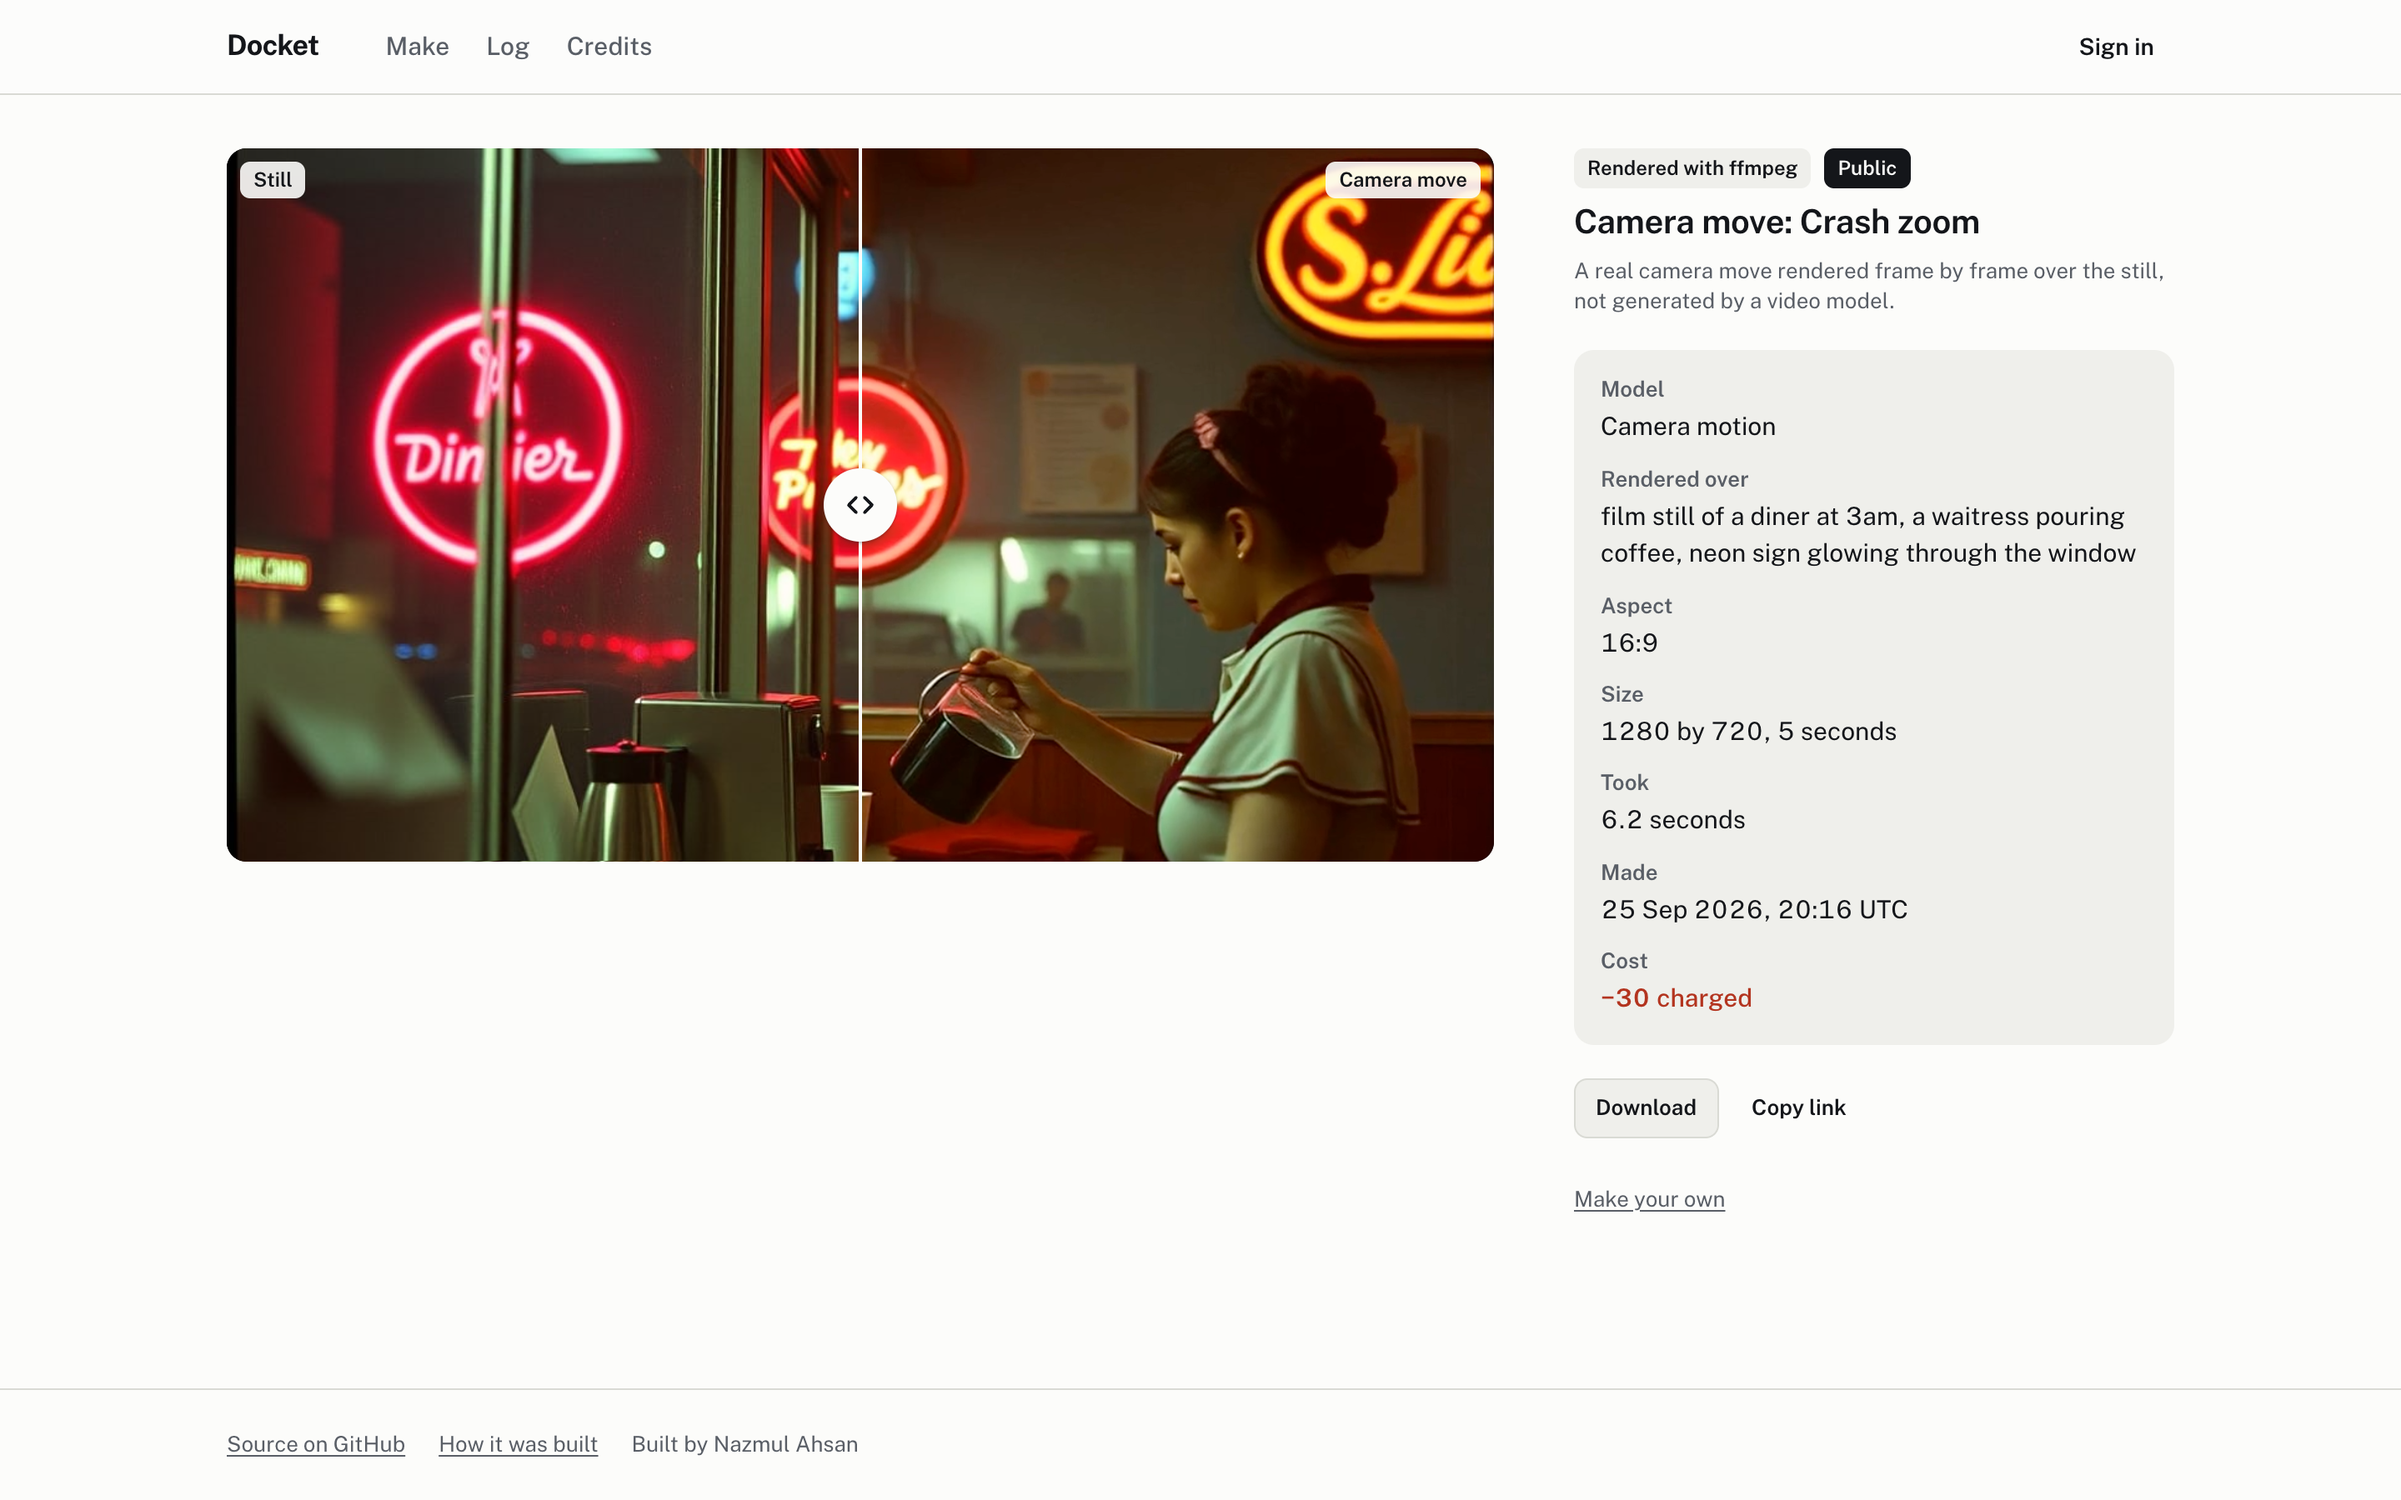
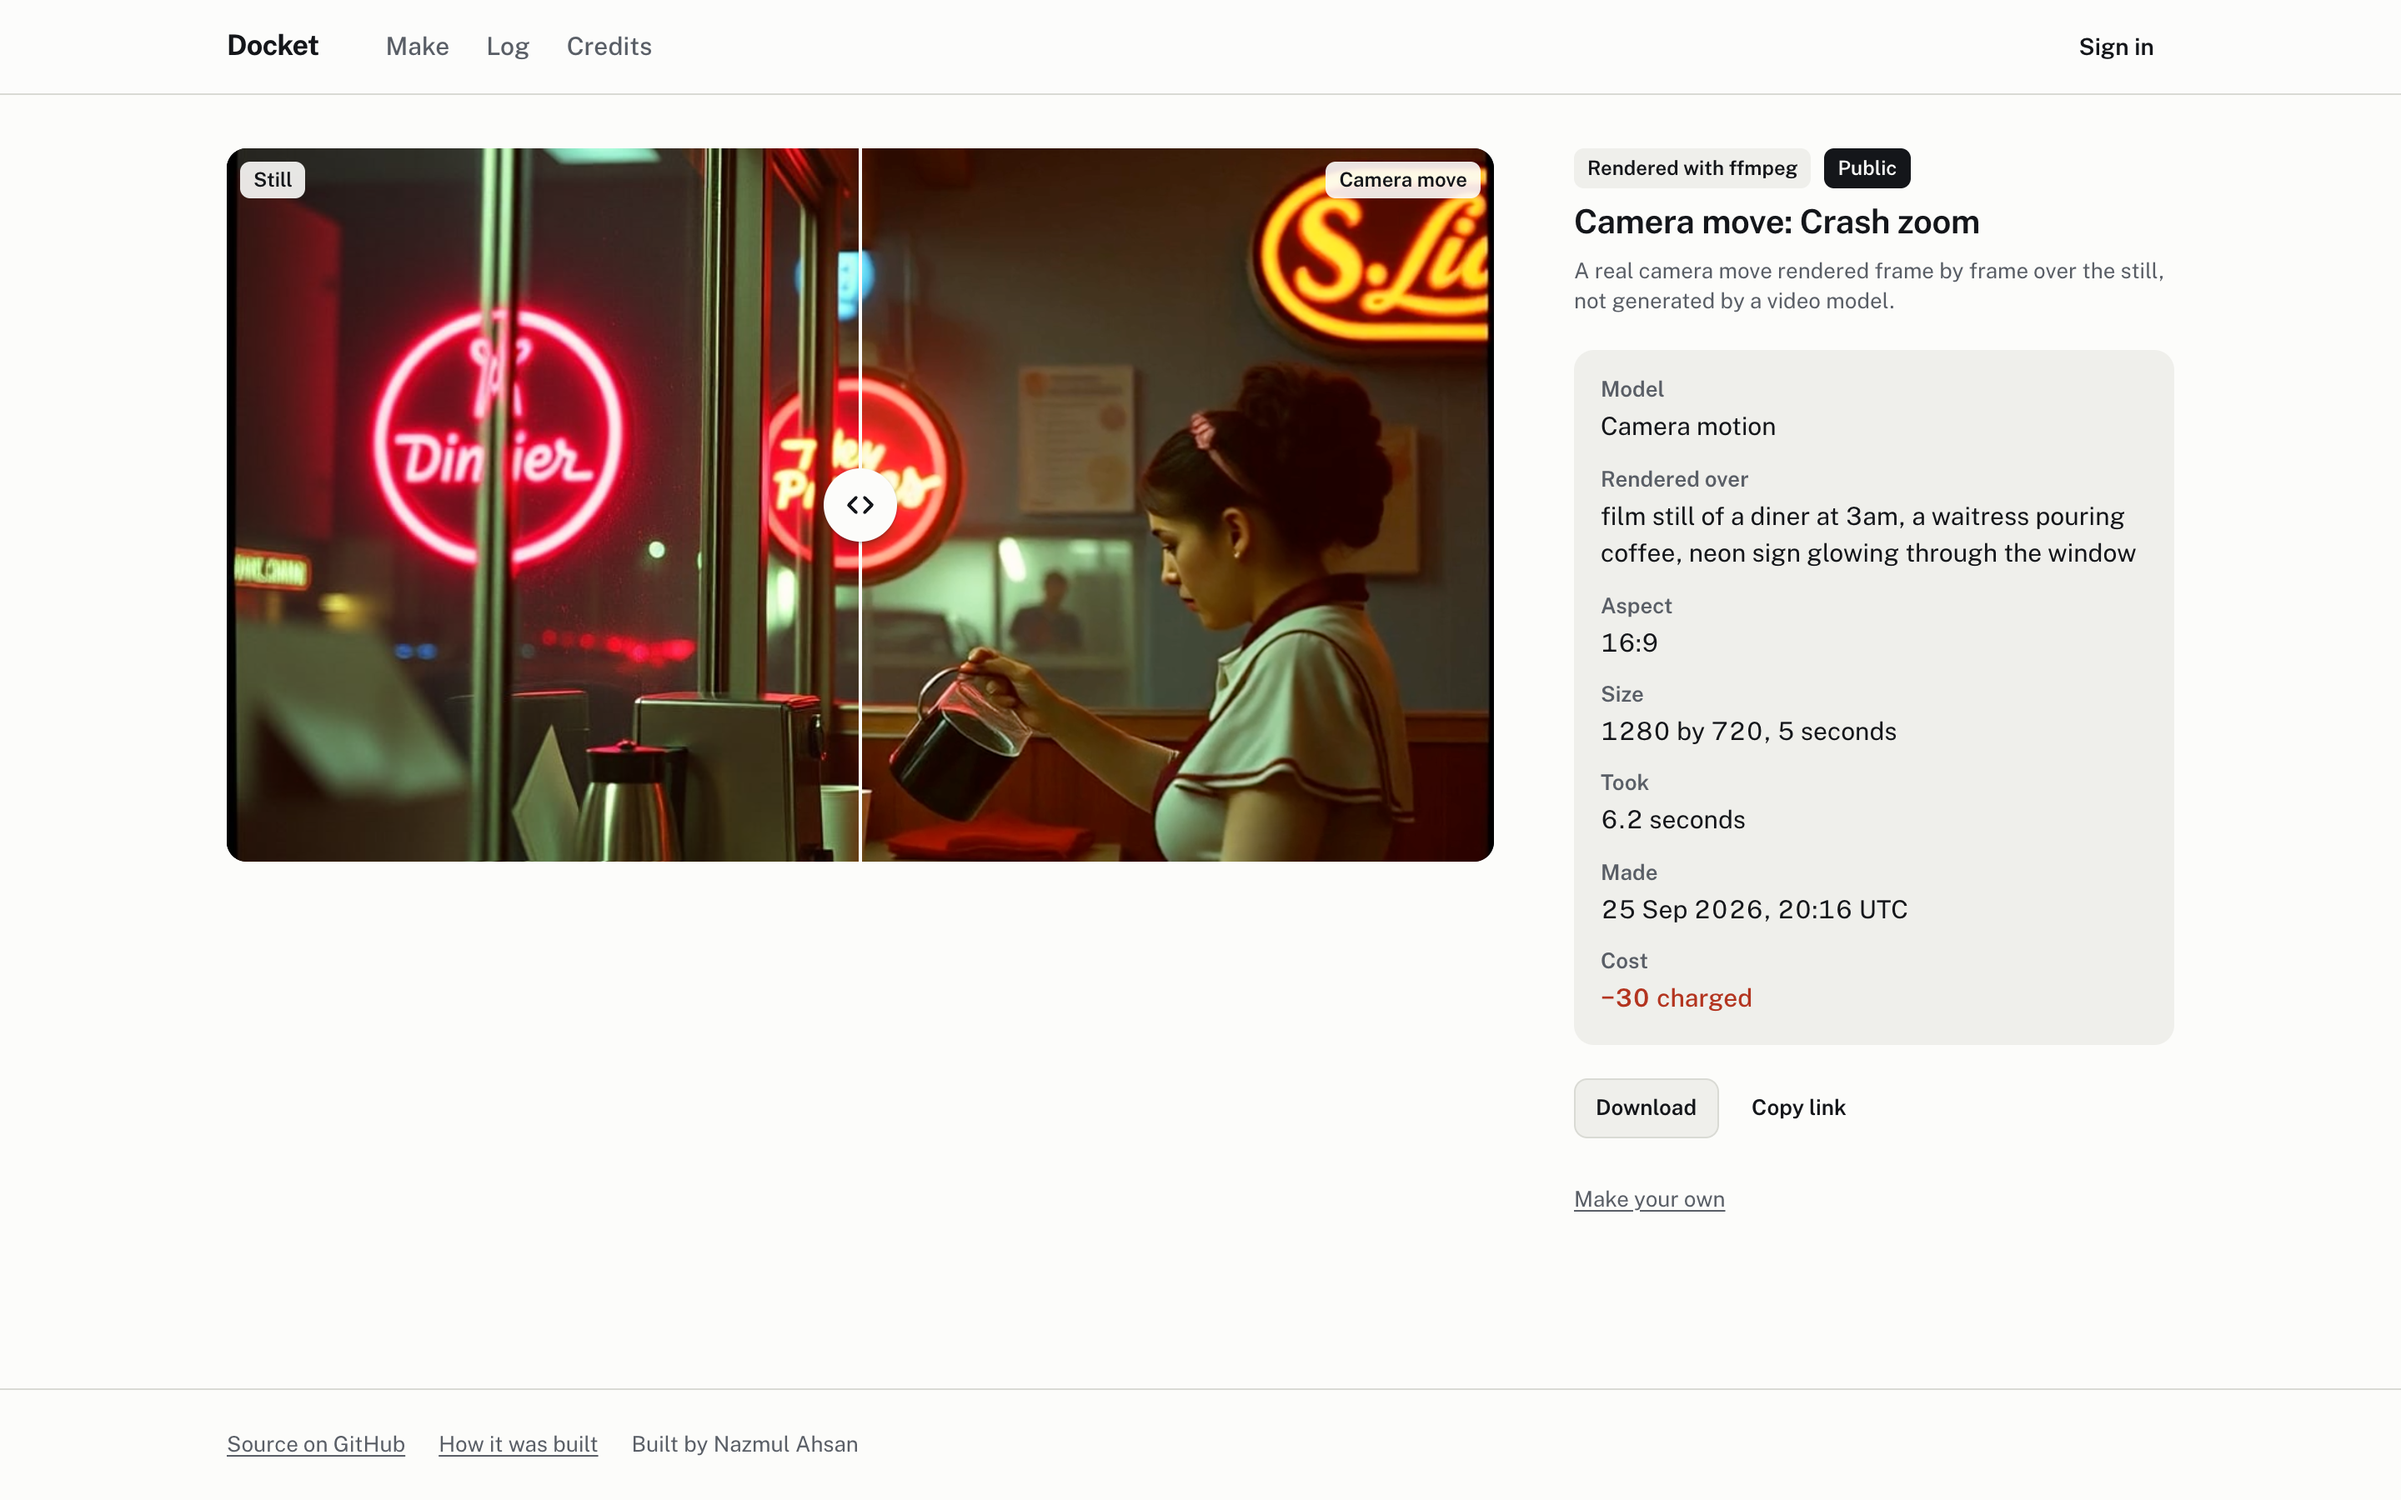
STATUS: frozen after the last pass; what waits on the owner
Production at 67a2799: readiness 78/78, home e2e 38/38 read-only at each width. #40 waits
on the owner's edits (not on GitHub yet) and the "With a real budget, next" bullets; #47 and
#44 follow it.

diff --git a/STATUS.md b/STATUS.md
@@ -1,10 +1,23 @@
 # Status
 
-**Features are frozen again as of 2026-09-26, after the reviewer-pass items below.** From here on, only fixes for what's broken, copy corrections, and the submission itself. Anything new goes to the owner as a proposal first.
+**Features are frozen as of 2026-09-26, after the owner's last pass.** From here on, only fixes for what's broken, copy corrections, and the submission itself. Anything new goes to the owner as a proposal first.
 
-**Waiting on the owner, not merged:**
-- **#40:** README, "What I changed from Higgsfield, and why". Every "why" is a draft for the owner to rewrite in their own words. It touches only README.md.
-- **#44:** `docs/walkthrough.md`, the 45-second "What I changed from Higgsfield" segment. Its lines paraphrase #40's drafts; merge it after #40.
+**Waiting on the owner, not merged (as of 2026-09-26):**
+- **#40:** README, "What I changed from Higgsfield, and why".
+  - The owner reported filling in recon §6 and editing every why. Neither edit had reached GitHub or this checkout when I looked: the branch holds only my two commits, and `recon/notes.md` §6 is still "TO FILL IN".
+  - Once the edits are pushed, the steps are: remove the "(draft)" markers and the "Every why below is a draft" note (no other wording changes), then add "With a real budget, next" under the table.
+  - Those bullets are also still needed: the request contained its placeholder, not the bullets.
+  - Then merge.
+- **#47** (stacked on #40): "In 60 seconds" at the very top of the README. Line 5 ("How it's checked") is my addition, and easy to drop. It merges after #40.
+- **#44:** the walkthrough segment. Rebase on `main` after #40 and #47, then merge.
+
+**The owner's last pass, done (2026-09-26):**
+- **#46:**
+  - The hero's camera move plays on load at 390 and 1440, measured.
+  - Under reduced motion it holds on its poster with its own "Play the move" button. The old native controls sat under the still's layer. This is fixed in the shared comparison, so log entries get it too.
+  - From `lg` up, the headline and the way in sit beside the pair, and the whole pair is on the first screen at 1440×789.
+  - The home strip no longer shows a still twice.
+- **Production at `67a2799`:** readiness **78/78**; `ui-home-e2e` **38/38** read-only at each width.
 
 **The second reviewer pass (owner, 2026-09-26), items 1–5:**
 1. The reference-to-decision story: #40, open for the owner's edit.
@@ -30,7 +43,7 @@
 - **`/credits`** shows plans that state their limits beside their credits, and the labelled demo checkout (`AHSAN345` takes 100% off).
 - **The account menu**, top right: who you are, balance, your log, sign out. A guest's sign-out warns first.
 
-**Last verification (2026-09-26, production at `311605f`, 390px and 1440px):** readiness **78/78** (fresh browser, signed out; it now also checks that `/make` opens on camera moves when the day's images are gone); `ui-home-e2e` **33/33** at each width (read-only against the live allowance, 0 of 57 left); `ui-menu-e2e` **20/20** at each width (the guest part, including the sign-out warning). Locally, on a fixture server: make 28, credits 22, home 34, log 12 and menu 22, all passing at both widths; `verify-limits` 16, `verify-log` 21.
+**Last verification (2026-09-26, production at `67a2799`, 390px and 1440px):** readiness **78/78** (fresh browser, signed out); `ui-home-e2e` **38/38** at each width (read-only against the live allowance, 0 of 57 left; it measures real playback, reduced motion and the side-by-side hero); `ui-menu-e2e` **20/20** at each width at `311605f` (the guest part). Locally, on a fixture server: make 28, credits 22, home 39, log 12 and menu 22, all passing at both widths; `verify-limits` 16, `verify-log` 21.
 
 **Owner to-dos, not blocking:**
 - The Vercel project and domain (`higgsfield-ai-clone.vercel.app`) still carry the old name; the GitHub repo is now `docket-nahsan`. The README's **Live:** link is the only domain serving Docket. If you submit a different domain, change that line.

diff --git a/README.md b/README.md
@@ -392,7 +392,7 @@ These run against the real database and storage, clean up after themselves, and 
 - **Readiness:** `node scripts/dev/readiness.mjs <baseUrl> [dir]` arrives cold, like a reviewer: a fresh browser, no cookies, signed out, at 390px and 1440px.
   - It checks every page, a real 404, every old URL's redirect, no trace of the old identity, tap targets and 16px controls, the real allowance, and that browsing creates no session.
   - It checks the share previews of home, a published move and the longest-prompt library image (og:title, og:description, a 1200×630 og:image that loads, twitter:card), and that a long title is cut at a word.
-  - It makes nothing, so it's safe to point at production. The last run against production (2026-09-26, after the second reviewer pass) passed 78/78, alongside the home e2e (read-only, 33/33 at each width) and the menu e2e's guest part (20/20 at each width).
+  - It makes nothing, so it's safe to point at production. The last run against production (2026-09-26, after the second reviewer pass) passed 78/78, alongside the home e2e (read-only, 38/38 at each width, measuring real playback) and the menu e2e's guest part (20/20 at each width).
 
 ## How it was built
 
